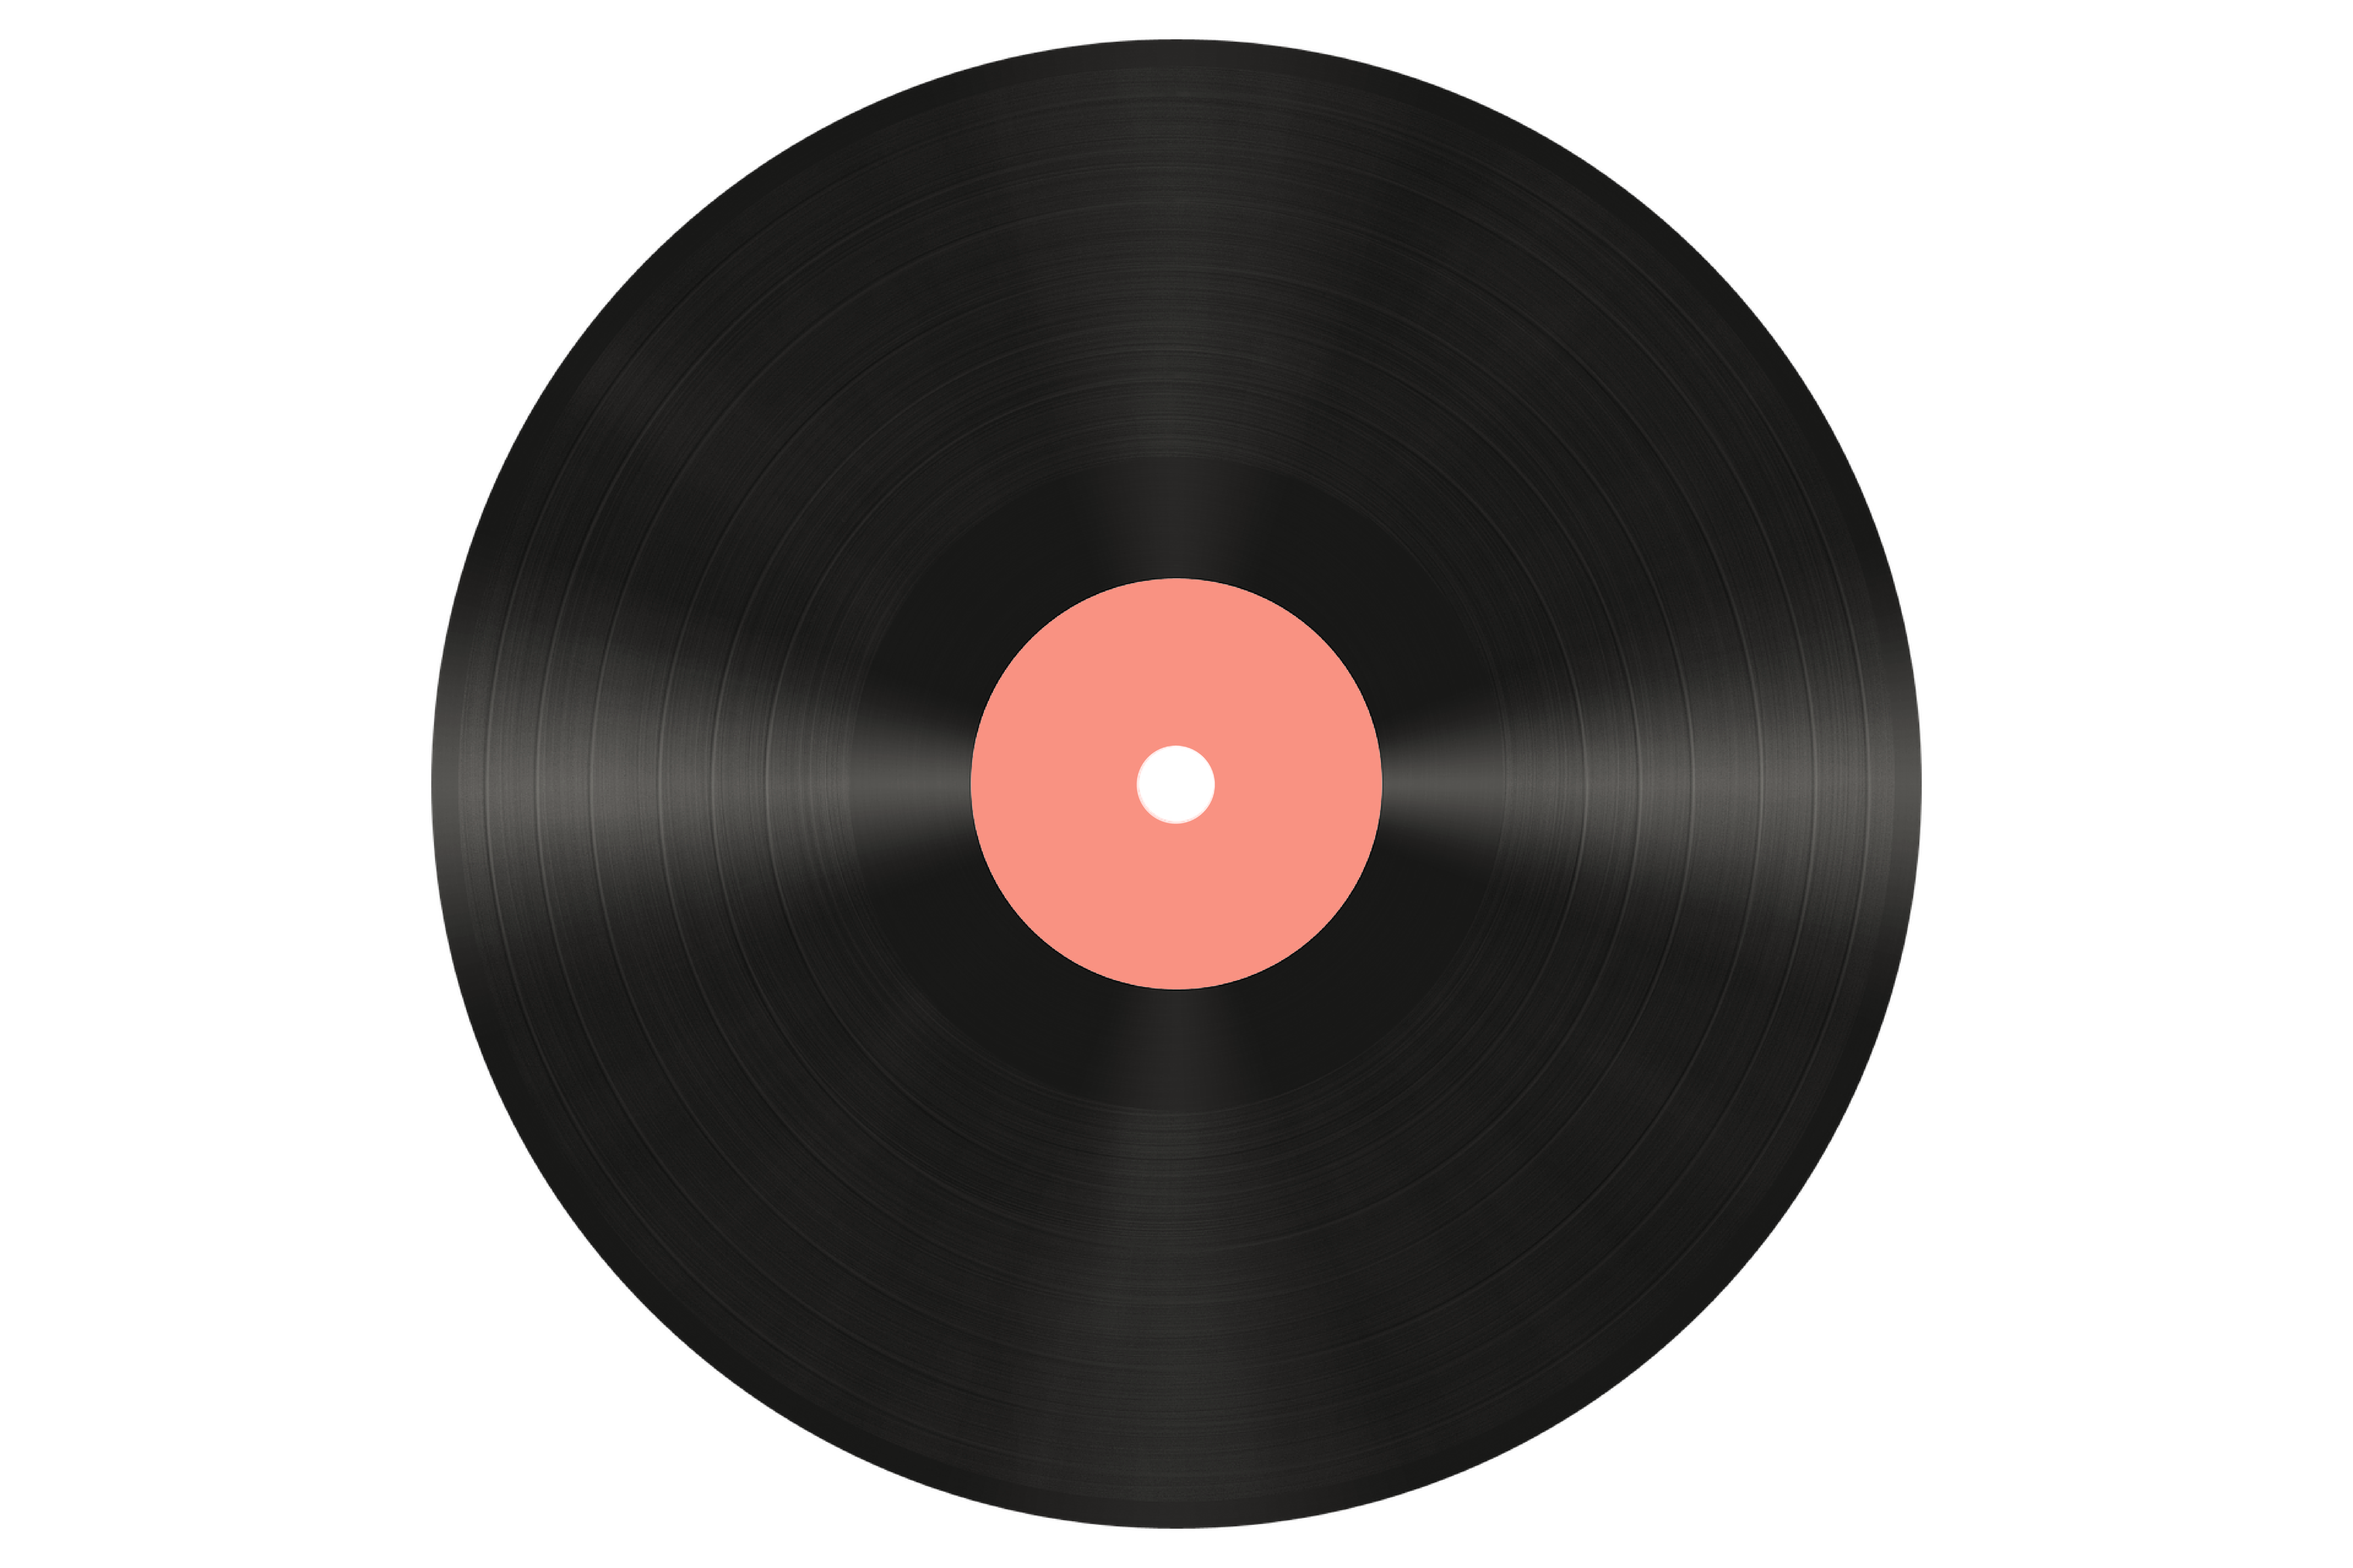
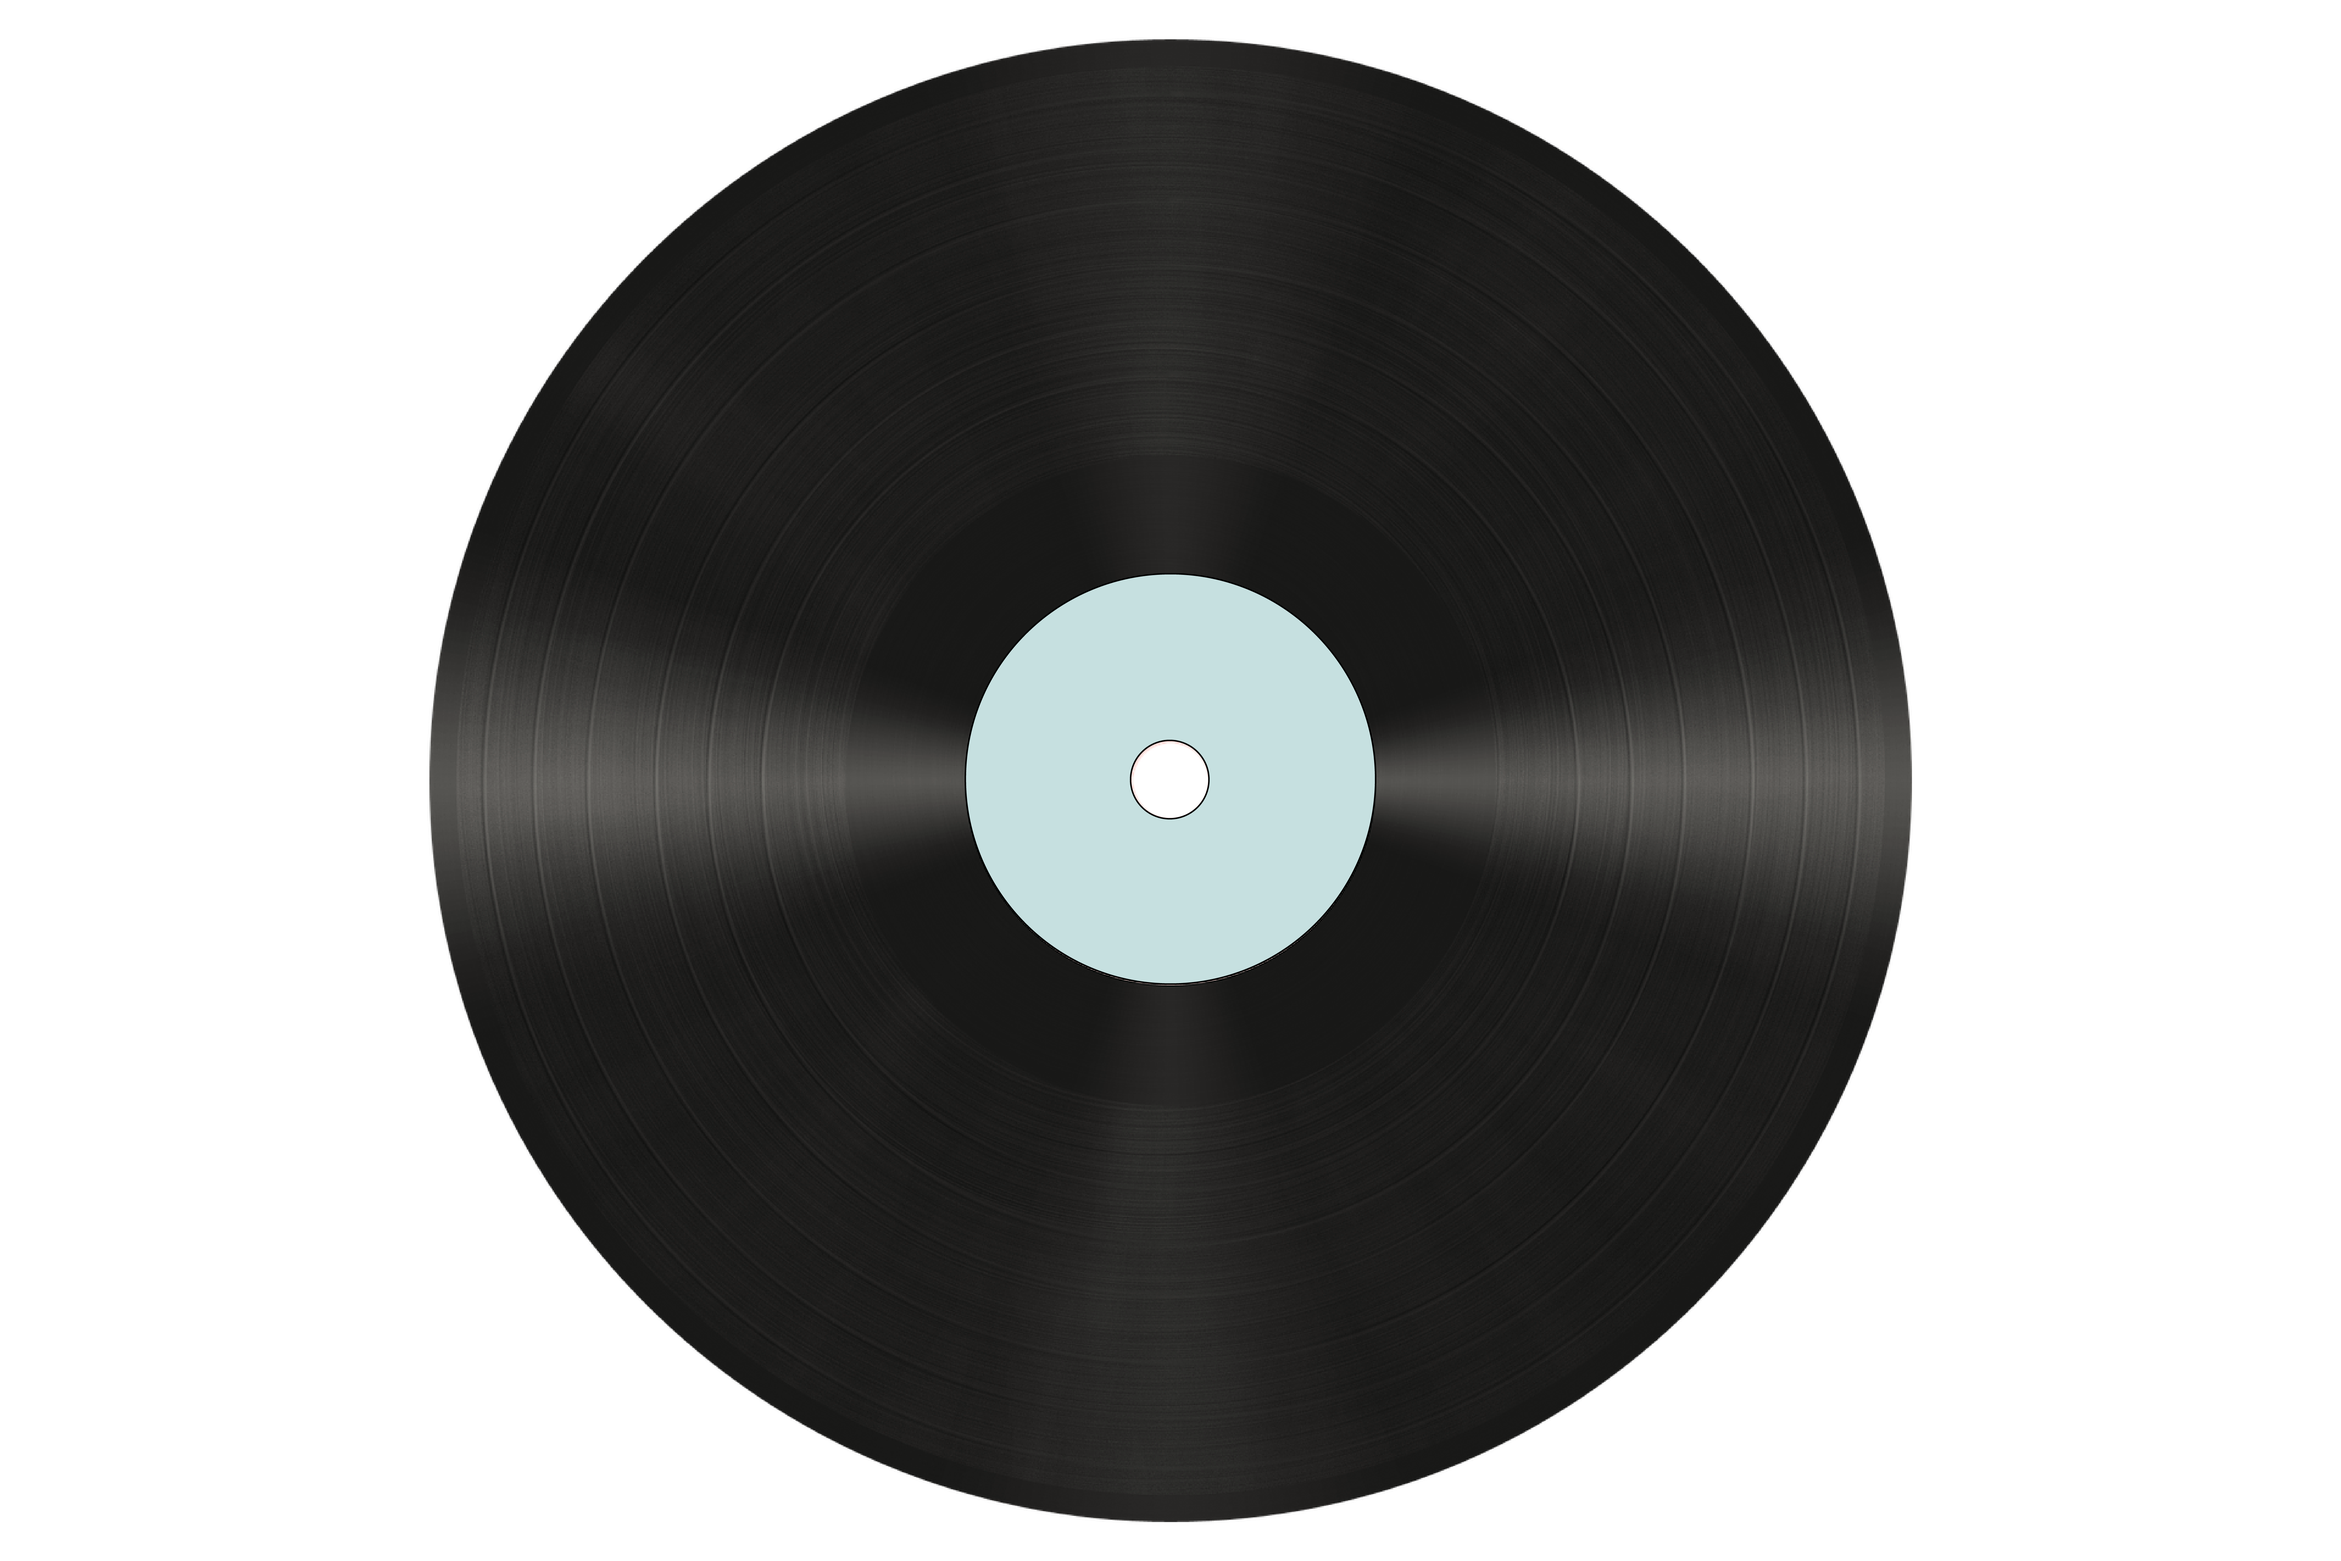
change record colors and spacing

Changed region(s): [[0.4044, 0.3422, 0.5911, 0.6532]]

diff --git a/zen_garden-main/zen_garden/scss/partials/_desktop-view.scss b/zen_garden-main/zen_garden/scss/partials/_desktop-view.scss
@@ -56,16 +56,6 @@
     text-align: right;
   }
 
-  .wrapper {
-    background-image: url("images/record.png");
-    background-repeat: no-repeat;
-    background-size: 1500px;
-    background-position: -701px 0px;
-      &::after {
-        display: none;
-      }
-  }
-
   //GRID FORMATTING
   .page-wrapper {
     display: grid;
@@ -185,37 +175,69 @@
     grid-auto-flow: row;
     grid-template-areas: "wrapper";
     grid-area: sidebar;
+    
   }
-
+  .wrapper {
+    background-image: none;
+    position: absolute;
+  overflow: hidden;
+    &::before{
+      content: "";
+      position: absolute;
+      z-index: -1;
+      background-image: url("images/record.png") ;
+      width: 100%;
+      height: 100%;
+      background-repeat: no-repeat;
+      background-size: 1500px;
+      background-position: -701px 0px;
+      &:active{
+        transform: rotate(30deg);
+        transition:transform .3s ease-in-out
+      }
+    }
+      &::after {
+        display: none;
+      }
+  }
   .wrapper {
     display: grid;
     grid-template-columns: 1fr;
-    grid-template-rows: 1fr 1fr 3fr;
+    grid-template-rows:25vmin 40vmin 25vmin;
     gap: 0px 0px;
     grid-auto-flow: row;
     grid-template-areas:
+    "design-archives"
       "design-selection"
-      "design-archives"
       "zen-resources";
     grid-area: wrapper;
     position: static;
+    padding-top: 5rem;
+    &:hover{
+      //transform: scale(1.01) translateX(0px);
+      //transition: transform .3s ease-in-out;
+      cursor: pointer;
+    }
+    
   }
 
   .design-selection {
     grid-area: design-selection;
     border-radius: 0px 500px 0px 0px;
     align-items: center;
+    transform: translate(13rem, 0rem);
   }
 
   .design-archives {
     grid-area: design-archives;
     border-radius: 0px 0px 500px 0px;
-
+    transform: translate(8rem, -1rem);
     align-items: center;
   }
 
   .zen-resources {
     grid-area: zen-resources;
+    transform: translate(8rem, -1rem);
   }
 }
 
